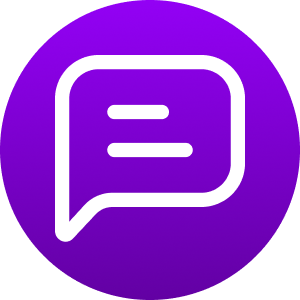
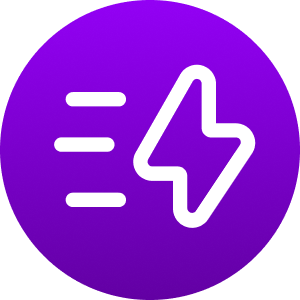
updates

Changed region(s): [[0.18, 0.18, 0.87, 0.81]]

diff --git a/src/components/ProductHowItWorks.js b/src/components/ProductHowItWorks.js
@@ -9,7 +9,7 @@ import Typography from "./Utils/Typography"
 import ProductCurvyLines from "../assets/images/productCurvyLines.png"
 import ProductHowItWorks1 from "../assets/images/productHowItWorks1.png"
 import ProductHowItWorks2 from "../assets/images/productHowItWorks2.png"
-import ProductValues4 from "../assets/images/productValues4.png"
+import ProductHowItWorks3 from "../assets/images/productHowItWorks3.png"
 
 const styles = theme => ({
   root: {
@@ -36,7 +36,7 @@ const styles = theme => ({
     fontSize: 46,
   },
   number: {
-    fontSize: 26,
+    fontSize: 22,
     fontFamily: theme.typography.fontFamily,
     color: theme.palette.secondary.main,
     fontWeight: theme.typography.fontWeightMedium,
@@ -61,7 +61,7 @@ function ProductHowItWorks(props) {
   const { classes } = props
 
   return (
-    <section id="how-it-works" className={classes.root}>
+    <section className={classes.root}>
       <Container className={classes.container}>
         <img
           src={ProductCurvyLines}
@@ -74,46 +74,46 @@ function ProductHowItWorks(props) {
           className={classes.title}
           component="h2"
         >
-          <a id="#how-it-works">How It Works</a>
+          How It Works
         </Typography>
         <div>
           <Grid container spacing={5}>
             <Grid item xs={12} md={4}>
               <div className={classes.item}>
-                <div className={classes.number}>1.</div>
+                {/* <div className={classes.number}>1.</div> */}
                 <img
                   src={ProductHowItWorks1}
-                  alt="suitcase"
+                  alt="chat bubble"
                   className={classes.image}
                 />
                 <Typography variant="h5" align="center">
-                  Create a profile and set your messaging prices.
+                  <span className={classes.number}>1. </span>Create a profile and set your messaging prices.
                 </Typography>
               </div>
             </Grid>
             <Grid item xs={12} md={4}>
               <div className={classes.item}>
-                <div className={classes.number}>2.</div>
+                {/* <div className={classes.number}>2.</div> */}
                 <img
                   src={ProductHowItWorks2}
-                  alt="graph"
+                  alt="megaphone"
                   className={classes.image}
                 />
                 <Typography variant="h5" align="center">
-                  Share your SwayDM link anywhere people usually try to find you – social media bios, email signatures, and websites – and encourage them to "SwayDM" you. 
+                <span className={classes.number}>2. </span>Share your SwayDM link anywhere people usually try to find you – social media bios, email signatures, and websites – and encourage them to "SwayDM" you. 
                 </Typography>
               </div>
             </Grid>
             <Grid item xs={12} md={4}>
               <div className={classes.item}>
-                <div className={classes.number}>3.</div>
+                {/* <div className={classes.number}>3.</div> */}
                 <img
-                  src={ProductValues4}
-                  alt="clock"
+                  src={ProductHowItWorks3}
+                  alt="dollar sign"
                   className={classes.image}
                 />
                 <Typography variant="h5" align="center">
-                  Get paid by for viewing and responding to messages. 
+                <span className={classes.number}>3. </span>Get paid by viewing and responding to messages. 
                   {/* {"New offers every week. New experiences, new surprises. "}
                   {"Your Sundays will no longer be alike."} */}
                 </Typography>

diff --git a/src/components/ProductHeroLayout.js b/src/components/ProductHeroLayout.js
@@ -15,7 +15,7 @@ const styles = theme => ({
     alignItems: "center",
     justifyContent: "left",
     [theme.breakpoints.up("sm")]: {
-      marginTop: "7em",
+      marginTop: "5em",
       height: "87vh",
       minHeight: 500,
       maxHeight: 1300,
@@ -30,12 +30,18 @@ const styles = theme => ({
     marginTop: theme.spacing(10),
     marginBottom: theme.spacing(12),
     display: "flex",
+    flexDirection: "column",
+    alignItems: "center",
+  },
+  middleContainer: {
+    display: "flex",
     flexDirection: "row",
     alignItems: "center",
   },
+
   innerContainer: {
     marginTop: theme.spacing(3),
-    marginBottom: theme.spacing(14),
+    marginBottom: theme.spacing(10),
     display: "flex",
     flexDirection: "column",
     [theme.breakpoints.down("md")]: {
@@ -54,6 +60,10 @@ const styles = theme => ({
     [theme.breakpoints.down("md")]: {
       display: "none",
   },
+  arrowWrap: {
+    display: "inline-block",
+    textAlign: "center",
+  }
 },
   backdrop: {
     position: "absolute",
@@ -77,7 +87,7 @@ const styles = theme => ({
   },
   arrowDown: {
     position: "absolute",
-    bottom: theme.spacing(4)
+    bottom: theme.spacing(4),
   },
 })
 
@@ -87,6 +97,7 @@ function ProductHeroLayout(props) {
   return (
     <section className={classes.root}>
       <Container className={classes.container}>
+      <Container className= {classes.middleContainer}>
       <Container className={classes.innerContainer}>
         <div className={classes.left}>
         {children}
@@ -96,15 +107,18 @@ function ProductHeroLayout(props) {
         <img src={heroPhoto} alt="Two Phones" width="500" height="auto" />
         </div>
         <div className={classes.backdrop} />
-        <div className={clsx(classes.background, backgroundClassName)} /> 
+        <div className={clsx(classes.background, backgroundClassName)} />
+        </Container>
+        <div className="arrow">
         <img
           className={classes.arrowDown}
           src={productHeroArrowDown}
-          height="16"
-          width="12"
+          height="28"
+          width="21"
           alt="arrow down"
         />
-      </Container>
+        </div> 
+        </Container>
     </section>
   )
 }

diff --git a/src/components/ProductHero.js b/src/components/ProductHero.js
@@ -15,6 +15,12 @@ const styles = theme => ({
   background: {
     backgroundPosition: "center",
   },
+  title: {
+    align: "left",
+    [theme.breakpoints.down("md")]: {
+      align: "center",
+    },
+  },
   button: {
     minWidth: 200,
   },
@@ -23,7 +29,7 @@ const styles = theme => ({
     fontSize: 38,
     marginBottom: theme.spacing(4),
     [theme.breakpoints.up("xs")]: {
-      marginTop: theme.spacing(8),
+      marginTop: theme.spacing(12),
     },
   },
   more: {
@@ -97,7 +103,7 @@ function ProductHero(props) {
           />
         </>
       )} */}
-      <Typography color="inherit" align="left" variant="h1" marked="none">
+      <Typography className="title" color="inherit" variant="h1" marked="none">
       Messaging is Messy
       </Typography>
       {/* <Typography color="inherit" align="center" variant="h2" marked="center">

diff --git a/src/components/UI/Footer.js b/src/components/UI/Footer.js
@@ -28,7 +28,7 @@ const useStyles = makeStyles(theme => ({
     zIndex: 3,
   },
   container: {
-    marginTop: theme.spacing(2),
+    marginTop: theme.spacing(6),
     marginBottom: theme.spacing(6),
     display: "flex",
     flexDirection: "column",
@@ -53,10 +53,11 @@ const useStyles = makeStyles(theme => ({
     display: "flex",
     justifyContent: "center",
     alignItems: "center",
-    backgroundColor: theme.palette.primary.white,
-    marginRight: theme.spacing(1),
+    backgroundColor: theme.palette.primary.light,
+    marginRight: theme.spacing(2),
+    marginLeft: theme.spacing(2),
     "&:hover": {
-      backgroundColor: theme.palette.primary.light,
+      backgroundColor: theme.palette.primary.white,
     },
   },
   list: {
